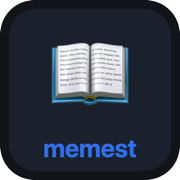
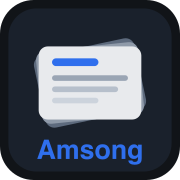
memest: 리스트 전부 공개, 아이콘을 암송카드로 재작성 (v0.2.15)
- 리스트에서 스포일러 가리기를 걷어낸다. 모든 구절의 제목·첫머리가 보이고
  탭하면 전문이 펼쳐진다. 이미 다뤄본 구절인지(studied)는 이제 표시가 아니라
  장절 탭 동작(전문부터 vs 단서부터)과 ⟲ 노출에만 쓴다.
- 단서 화면 중제목 색을 회색으로 (#9fb4d0 → #8a94a3).
- 아이콘을 펼친 성경책(📖 이모지)에서 겹친 암송카드 세 장으로 다시 그리고,
  PNG 3종(512/192/apple-touch)을 rsvg-convert로 재생성. 이모지가 아니라
  순수 도형이라 어느 렌더러에서나 같게 나온다. 아이콘 속 글자도 Amsong.

diff --git a/apps/memest/src/ui/verse-list-sheet.tsx b/apps/memest/src/ui/verse-list-sheet.tsx
@@ -23,8 +23,9 @@ type Props = {
 
 /**
  * 구절 리스트 (바텀시트). 기본은 복습 범위 전체, titleScope가 오면 그 제목 범위.
- * 스포일러 방지: 이번 세션에서 확인했거나 이전 세션에서 다뤘던 카드만 제목·첫머리를
- * 노출하고, 현재 카드와 이번 세션에서 아직 안 나온 대기 카드는 장절만 보여준다.
+ * 모든 구절의 제목·첫머리를 보여준다 (예전의 스포일러 가리기는 걷어냄 — 리스트는
+ * 찾아보는 용도라 다 보이는 편이 쓸모 있다). 이미 다뤄본 구절인지(studied)는
+ * 표시가 아니라 장절 탭의 동작(전문부터 vs 단서부터)에만 쓴다.
  */
 export function VerseListSheet({
 	data,
@@ -111,10 +112,11 @@ export function VerseListSheet({
 						lastGroup = group
 						// 제목 범위 리스트에서는 현재 카드도 다른 구절과 똑같이 보여준다
 						const isCurrent = v.id === currentId && !titleScope
-						// 이번 세션에서 확인했거나, 이전 세션에서 다뤘고 지금 대기열에 없는 카드만 공개
-						const revealed =
-							!isCurrent &&
-							(doneNow.has(v.id) || (data.progress[v.id] && !queued.has(v.id)))
+						// 이미 다뤄본 구절인지 — 표시가 아니라 장절 탭의 동작을 가른다
+						// (다뤄봤으면 전문부터 = 브라우징, 아니면 단서부터 = 암송)
+						const studied =
+							doneNow.has(v.id) ||
+							Boolean(data.progress[v.id] && !queued.has(v.id))
 						return (
 							<div key={v.id}>
 								{header && <div className="list-part-header">{header}</div>}
@@ -123,7 +125,7 @@ export function VerseListSheet({
 									<button
 										type="button"
 										className="list-ref list-ref-btn"
-										onClick={() => onPick(v.id, Boolean(revealed))}
+										onClick={() => onPick(v.id, studied)}
 										aria-label={`${v.ref} 선택`}
 									>
 										{v.ref}
@@ -132,18 +134,15 @@ export function VerseListSheet({
 										type="button"
 										className="list-row-main"
 										onClick={() =>
-											revealed &&
 											setExpandedId(expandedId === v.id ? null : v.id)
 										}
 									>
 										{isCurrent && <span className="now-tag">지금 복습중</span>}
-										{revealed && (
-											<span className="list-preview">
-												{v.title} — {opening(v.text, 20)}
-											</span>
-										)}
+										<span className="list-preview">
+											{v.title} — {opening(v.text, 20)}
+										</span>
 									</button>
-									{revealed && !titleScope && (
+									{studied && !titleScope && (
 										<button
 											type="button"
 											className="redo-btn"
@@ -154,7 +153,7 @@ export function VerseListSheet({
 										</button>
 									)}
 								</div>
-								{expandedId === v.id && revealed && (
+								{expandedId === v.id && (
 									<div className="list-expanded">
 										<div className="hierarchy">
 											{v.midTitle ? `${v.midTitle} › ` : ''}

diff --git a/apps/memest/src/app.css b/apps/memest/src/app.css
@@ -151,7 +151,7 @@ body {
 }
 
 .cue-mid {
-	color: #9fb4d0;
+	color: #8a94a3;
 	font-size: 0.9rem;
 }
 

diff --git a/apps/memest/docs/ADR.md b/apps/memest/docs/ADR.md
@@ -77,7 +77,7 @@ EUC-KR 탭 구분 원본(BTT/data/card*.txt)을 `scripts/convert-btt.ts`로 `dat
 
 - 앱 실행 = 하던 세션 복원. 세션 없을 때만 시작 화면.
 - 본문 영역만 스크롤, 하단 버튼은 위치 고정. 버튼은 엄지 존(하단에서 버튼 높이 2배 위). 하단 스택: 보조 링크 → 큰 버튼 2개 → 지나온 구절 핸들(맨 아래).
-- **스포일러 방지**: 리스트에서 현재 카드와 이번 세션 대기 카드는 장절만. 이번 세션 확인분 + 이전 세션에서 다룬 카드는 공개(전문 펼침, ⟲ 다시 암송).
+- **리스트는 전부 공개** (v0.2.15): 모든 구절의 제목·첫머리를 보여주고 탭하면 전문이 펼쳐진다. 초기의 스포일러 가리기는 걷어냈다 — 리스트는 암송 중이 아니라 찾아보는 용도라 가리는 쪽이 더 불편했다. 이미 다뤄본 구절인지는 장절 탭의 동작(전문부터 vs 단서부터)과 ⟲ 노출에만 쓴다.
 - 암송 버튼은 홀드가 아니라 **토글** (꾹 누르기는 긴 구절에서 불편 — 사용자 피드백으로 변경).
 - 범위 선택 시트는 즉시 적용이 아니라 **[취소]/[적용]** (모두 해제가 세션을 즉시 죽이는 사고 방지).
 - 진행 중 일일 세션에서 범위를 적용하면 즉시 재구성, 집중 세션은 유지.

diff --git a/apps/memest/docs/PRD.md b/apps/memest/docs/PRD.md
@@ -70,7 +70,7 @@
 
 - 화면은 세션 하나. 나머지(설정·구절 리스트·범위 선택)는 전부 시트. 앱을 열면 하던 세션이 그대로 복원.
 - 본문 영역만 스크롤, 하단 버튼은 위치 고정 (엄지 존, 버튼 높이 2배만큼 위로 올림).
-- **지나온 구절 시트**: 현재 범위 전체 리스트. 이번 세션 확인 카드 + 이전 세션에서 다룬 카드는 첫머리 공개·전문 펼침·⟲ 다시 암송. 현재/대기 카드는 장절만(스포일러 방지).
+- **지나온 구절 시트**: 현재 범위 전체 리스트. 모든 구절의 첫머리 공개·전문 펼침. 이미 다뤄본 구절에만 ⟲ 다시 암송.
 - 정답 화면 [다시하기](정답 안 봤을 때만), 설정에 버전 표시.
 
 ### 저장·배포
